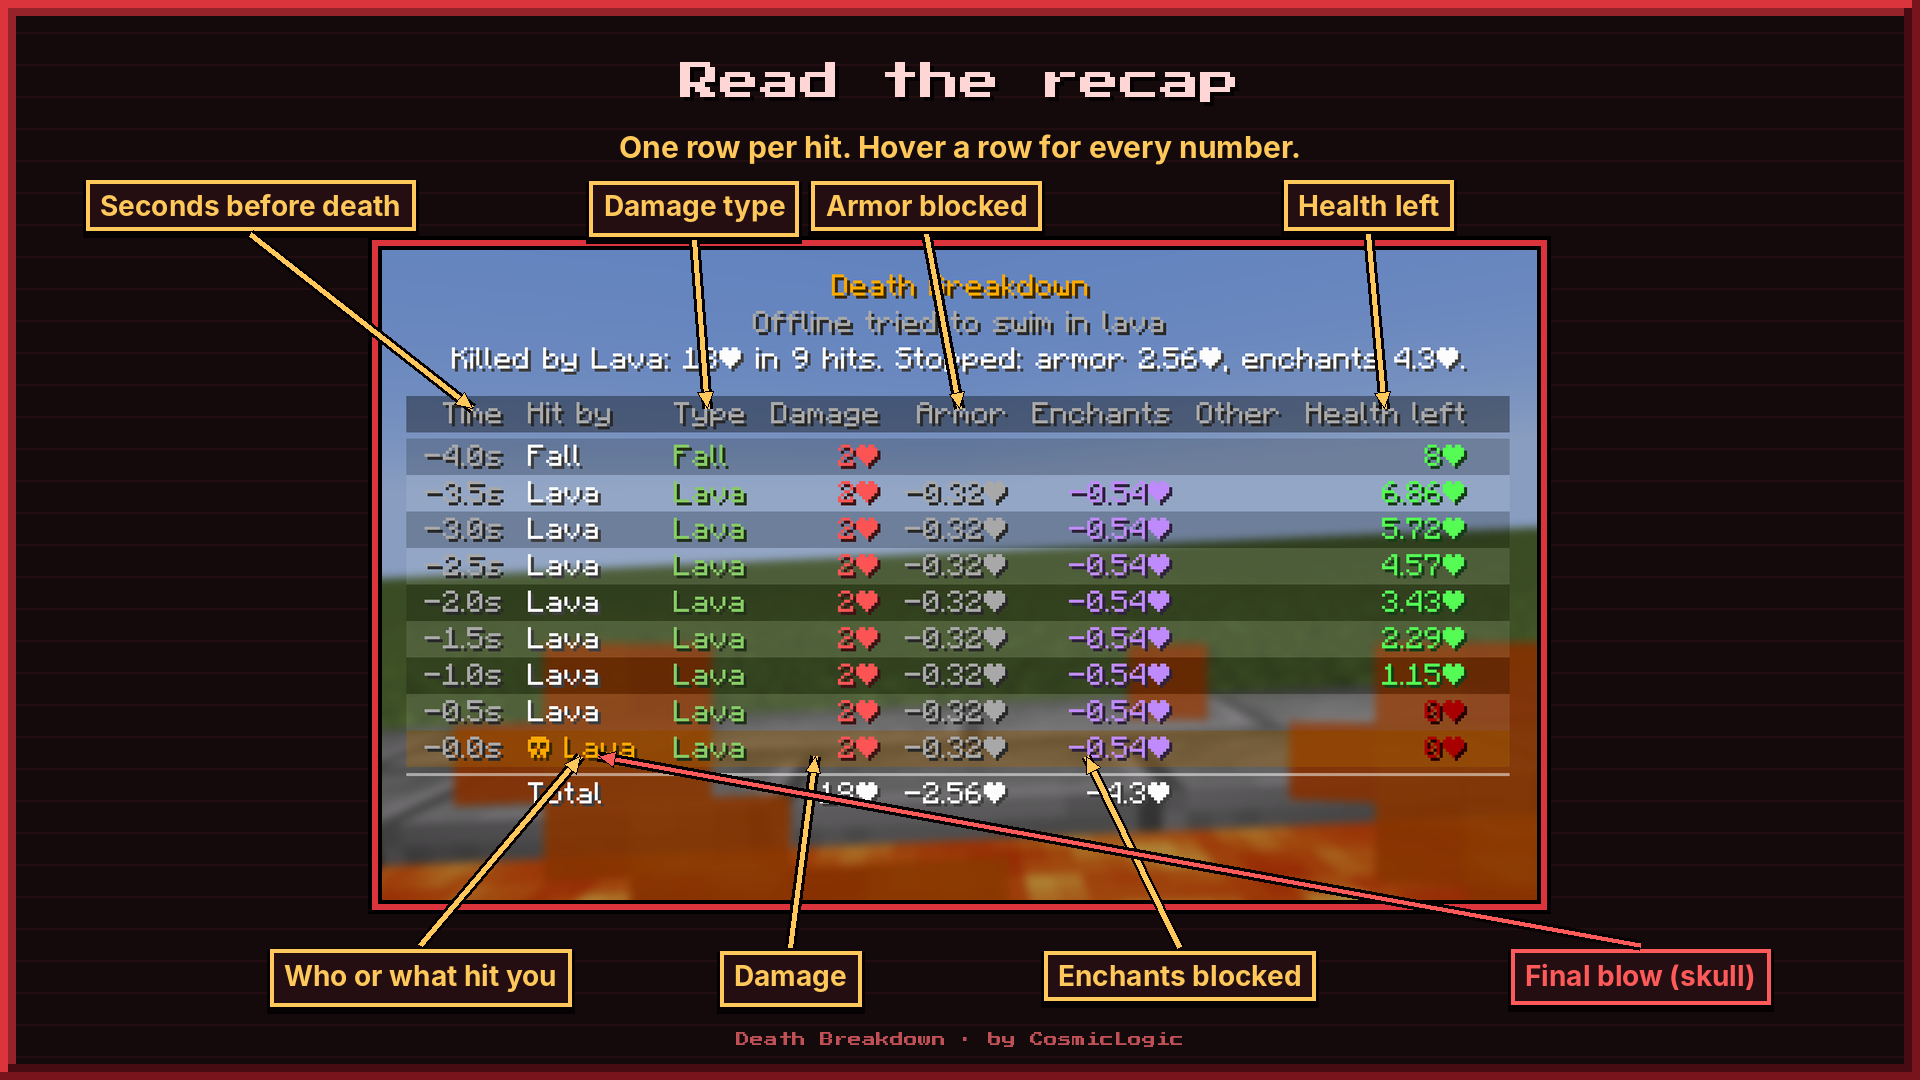
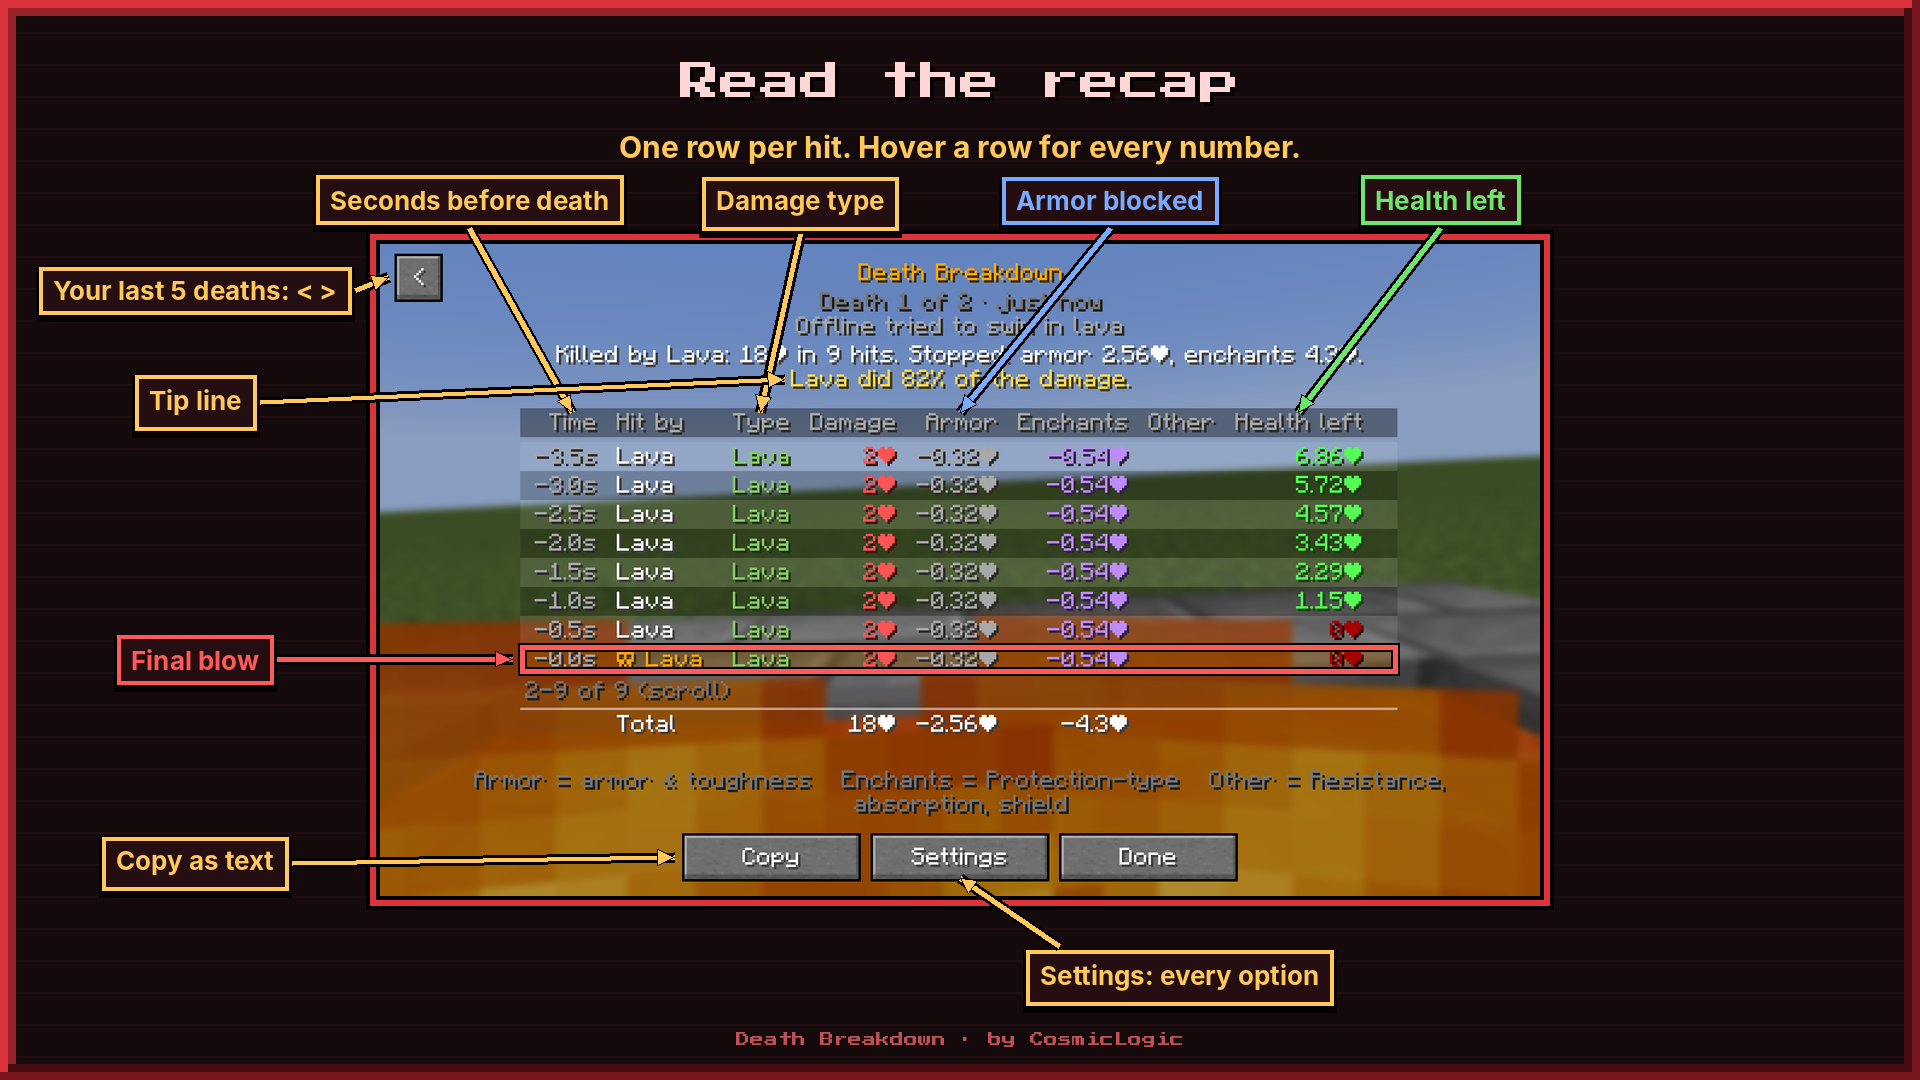
1.1.0 gallery graphics (read the recap, gear blocked, new in 1.1.0); shots use the newest plugin build
Claude-Session: https://claude.ai/code/session_018RUrFUNWZAZWJggZqgw4K9

diff --git a/art/source/gallery.py b/art/source/gallery.py
@@ -168,11 +168,11 @@ def make_static():
     neo = {'26.3', '26.2', '26.1', '1.21.11', '1.21.1', '1.20.1'}
     versions_card('Works where you play', 'One mod, 10 Minecraft versions, Forge and NeoForge',
                   ['Forge', 'NeoForge'], [(v, [True, True if v in neo else 'no NeoForge']) for v in VERSIONS],
-                  ['Players without the mod on a modded server still get the chat recap.'], 'mod-05-versions.png', 43)
+                  ['Players without the mod on a modded server still get the chat recap.'], 'mod-06-versions.png', 43)
     versions_card('Works where you play', 'One plugin jar for every Paper version',
                   ['Paper'], [(v, [True]) for v in VERSIONS],
                   ['Players need nothing installed: it all happens in chat and a book.',
-                   'Requires LogicLib Plugin in your plugins folder.'], 'plugin-04-versions.png', 44)
+                   'Requires LogicLib Plugin 0.2.0 or newer in your plugins folder.'], 'plugin-04-versions.png', 44)
 
 
 if __name__ == '__main__':
@@ -211,35 +211,49 @@ def three_steps(title, sub, crops, captions, out, seed):
     print('made', out)
 
 
+def grid4(title, sub, items, out, seed):
+    """Four real screenshot crops in a 2x2 grid, each with a one-line caption."""
+    im, d = base(seed, [(60, 40, 1860, 1040)])
+    heading(d, title, sub)
+    boxes = [(110, 190, 930, 520), (990, 190, 1810, 520), (110, 600, 930, 930), (990, 600, 1810, 930)]
+    for (pic, cap), box in zip(items, boxes):
+        panel(im, d, pic, box)
+        d.text(((box[0] + box[2]) // 2, box[3] + 38), cap, font=T(30), fill=TITLE, anchor='mm')
+    footer(d)
+    im.save(os.path.join(OUT, out))
+    print('made', out)
+
+
 def mod_explainers():
-    death = shot('mod-death-screen.png').crop((0, 0, 1040, 640))
+    death = shot('mod-death-screen.png')
     recap = shot('mod-recap-lava.png')
-    keys = shot('mod-key-binds.png').crop((150, 1250 - 600, 1750, 1080 - 0)) if False else shot('mod-key-binds.png').crop((160, 660, 1760, 1060))
+    keys = shot('mod-key-binds.png').crop((160, 720, 1760, 1060))
     three_steps('How it works', 'From death to the full story in one click',
                 [death, recap, keys],
-                ['You die. Click the skull "Death Breakdown" button (or let it open by itself).',
+                ['You die. Click the skull "Death Breakdown" button on the death screen.',
                  'Read every hit from your last 10 seconds, oldest at the top.',
                  'Press K, or type /deathbreakdown, to open it again any time.'],
                 'mod-02-how-it-works.png', 51)
 
-    # Read the recap: the lava recap with every column labeled
+    # Read the recap: the real lava recap with its parts labeled
     im, d = base(52, [(60, 40, 1860, 1040)])
     heading(d, 'Read the recap', 'One row per hit. Hover a row for every number.')
-    pic = shot('mod-recap-lava.png')
-    px, py, s = panel(im, d, pic, (300, 250, 1620, 900))
-    X = lambda x: px + x * s
-    Y = lambda y: py + y * s
-    hy = Y(270)
-    top = [('Seconds before death', 150, 140), ('Damage type', 540, 520), ('Armor blocked', 960, 905), ('Health left', 1665, 1640)]
-    for text, cx, tx in top:
-        l, t, r, b = tag(d, (X(tx) if tx > 300 else 250, 205), text, SUB, T(28))
-        arrow(d, ((l + r) // 2, b + 4), (X(cx), hy - 4), w=5, head=18)
-    bot = [('Who or what hit you', 330, 330, (420, 975)), ('Damage', 720, 700, (790, 975)),
-           ('Enchants blocked', 1170, 1170, (1180, 975)), ('Final blow (skull)', 360, 360, (1640, 975))]
-    for text, cx, _, (tx, ty) in bot:
-        col = DMG if 'Final' in text else SUB
-        l, t, r, b = tag(d, (tx, ty), text, col, T(28))
-        arrow(d, ((l + r) // 2, t - 4), (X(cx), Y(842)), col=col, w=5, head=18)
+    px, py, s = panel(im, d, shot('mod-recap-lava.png'), (380, 240, 1540, 900))
+    X = lambda x: int(px + x * s)
+    Y = lambda y: int(py + y * s)
+    for text, tx, cx in [('Seconds before death', 470, 318), ('Damage type', 800, 630), ('Armor blocked', 1110, 960), ('Health left', 1440, 1520)]:
+        col = ARMOR if 'Armor' in text else HEALTH if 'Health' in text else SUB
+        l, t, r, b = tag(d, (tx, 200), text, col, T(26))
+        arrow(d, ((l + r) // 2, b + 4), (X(cx), Y(296) - 10), col=col, w=5, head=18)
+    ring(d, (X(232), Y(664), X(1684), Y(711)), DMG, w=5)
+    for text, ty, target, col in [('Your last 5 deaths: < >', 290, (X(63) - 30, Y(55)), SUB),
+                                  ('Tip line', 400, (X(670), Y(224)), SUB),
+                                  ('Final blow', 660, (X(232) - 8, Y(687)), DMG),
+                                  ('Copy as text', 860, (X(500) - 8, Y(1015)), SUB)]:
+        l, t, r, b = tag(d, (195, ty), text, col, T(26))
+        arrow(d, (r + 4, (t + b) // 2), target, col=col, w=5, head=18)
+    l, t, r, b = tag(d, (1180, 975), 'Settings: every option', SUB, T(26))
+    arrow(d, ((l + r) // 2 - 120, t - 4), (X(960), Y(1050)), w=5, head=18)
     footer(d)
     im.save(os.path.join(OUT, 'mod-03-read-the-recap.png'))
     print('made mod-03-read-the-recap.png')
@@ -247,12 +261,14 @@ def mod_explainers():
     # What your gear blocked: three real recaps, three kinds of protection
     im, d = base(53, [(60, 40, 1860, 1040)])
     heading(d, 'See what your gear blocked', 'Armor and each Protection enchantment, in hearts')
-    items = [('mod-recap-creeper.png', 'Creeper', 'Blast Protection IV', 'enchants stopped 3.71♥', ENCH),
-             ('mod-recap-lava.png', 'Lava', 'Fire Protection IV', 'enchants stopped 4.3♥', ENCH),
-             ('mod-recap-hover.png', 'Skeleton arrows', 'Iron armor', 'armor stopped 2.66♥', ARMOR)]
+    crops = {'mod-recap-creeper.png': (300, 0, 1620, 640), 'mod-recap-lava.png': (232, 160, 1690, 840),
+             'mod-recap-hover.png': (232, 0, 1690, 640)}
+    items = [('mod-recap-creeper.png', 'Creeper', 'Blast Protection IV', 'enchants stopped 3.71\u2665', ENCH),
+             ('mod-recap-lava.png', 'Lava', 'Fire Protection IV', 'enchants stopped 4.3\u2665', ENCH),
+             ('mod-recap-hover.png', 'Skeleton arrows', 'Iron armor', 'armor stopped 1.85\u2665', ARMOR)]
     for i, (f, what, gear, num, col) in enumerate(items):
         x0 = 70 + i * 620
-        panel(im, d, shot(f), (x0, 230, x0 + 540, 560))
+        panel(im, d, shot(f).crop(crops[f]), (x0, 230, x0 + 540, 560))
         d.text((x0 + 270, 640), what, font=T(34), fill=TITLE, anchor='mm')
         tag(d, (x0 + 270, 720), gear, col, T(32))
         d.text((x0 + 270, 800), num, font=T(32), fill=col, anchor='mm')
@@ -260,6 +276,13 @@ def mod_explainers():
     footer(d)
     im.save(os.path.join(OUT, 'mod-04-gear-blocked.png'))
     print('made mod-04-gear-blocked.png')
+
+    grid4('New in 1.1.0', 'Your recent deaths, a settings screen, history and help',
+          [(shot('mod-recap-creeper.png').crop((0, 0, 1920, 640)), 'Your last 5 deaths: flip with < and >, plus a tip'),
+           (shot('mod-settings.png'), 'Settings screen: every option explained'),
+           (shot('mod-history.png'), '/db history: click a death to open it'),
+           (shot('mod-help.png'), '/db help: every command, explained')],
+          'mod-05-new-in-1-1.png', 54)
 
 
 def plugin_explainers():
